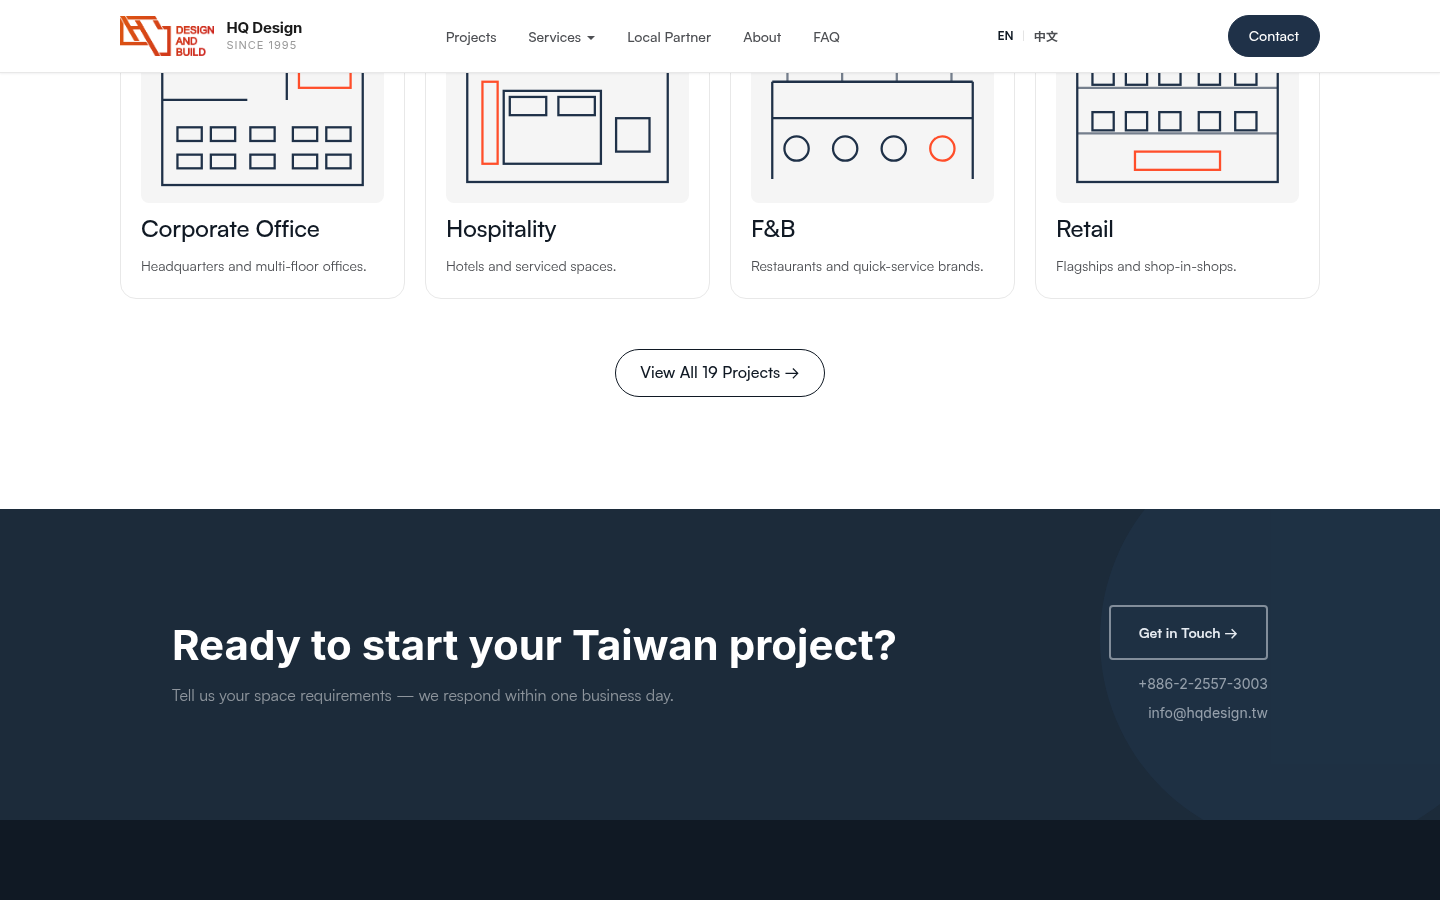
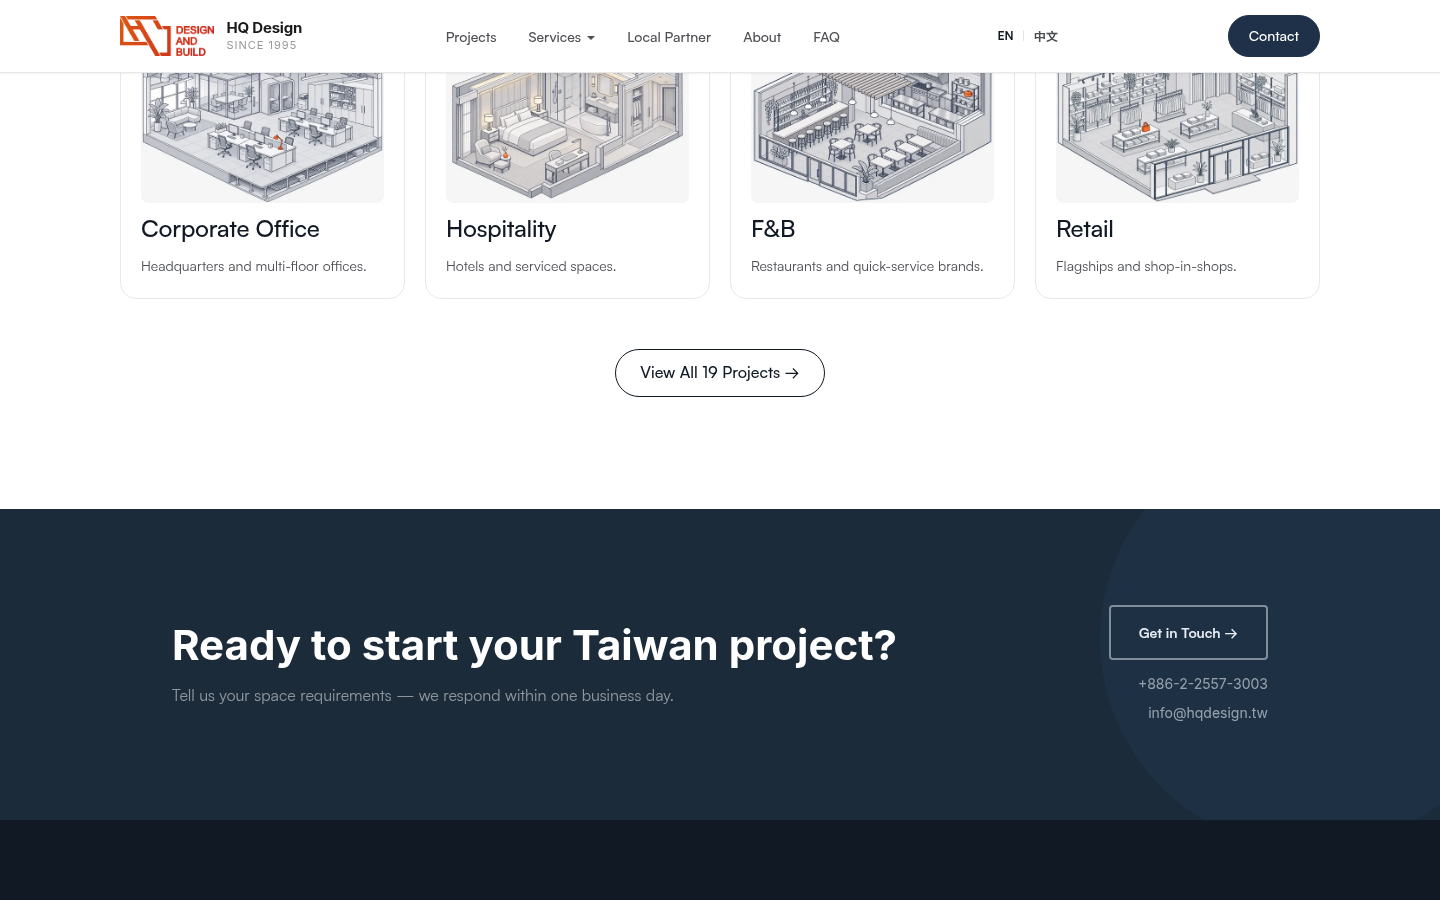
feat(home): replace hand-coded line art with detailed fictional architectural drawings
- Hero: isometric two-level office cutaway; loader window: full-floor office plan (plan -> space story).
- Work entry: isometric cutaways for office, hotel, F&B and retail.
- Generated text-only with Higgsfield (fictional, no client material); provenance in assets/images/home/README.md.
- WebP with srcset; hero/loader use white-on-black + mix-blend-mode: screen to keep files small (hero 96-210 KB).

Claude-Session: https://claude.ai/code/session_014qrEAcd6FcJcTs1soU3tCW

Changed region(s): [[0.3125, 0.0622, 0.6875, 0.2178], [0.0938, 0.0622, 0.2812, 0.2178], [0.7188, 0.0622, 0.9062, 0.2178]]

diff --git a/index.html b/index.html
@@ -87,11 +87,7 @@
 
 <div class="hm-loader" id="hm-loader" data-theme="dark" role="dialog" aria-modal="true" aria-label="HQ Design intro" data-step="0">
   <div class="hm-loader__window" aria-hidden="true">
-<svg viewBox="0 0 960 600" preserveAspectRatio="xMidYMid slice" fill="none" stroke="currentColor" stroke-width="1.25" aria-hidden="true" focusable="false">
-  <rect x="120" y="80" width="720" height="440"/><rect x="424" y="204" width="112" height="192"/>
-  <path d="M120 262 H424 M536 300 H840 M300 80 V262 M660 300 V520 M120 400 H300"/>
-  <rect x="540" y="304" width="296" height="212" fill="#ff4e2a" fill-opacity=".1" stroke="#ff4e2a" stroke-dasharray="6 5"/>
-</svg>
+<img src="assets/images/home/loader-plan-1600.webp" srcset="assets/images/home/loader-plan-960.webp 960w, assets/images/home/loader-plan-1600.webp 1600w" sizes="100vw" width="1600" height="1063" alt="" decoding="async">
 
   </div>
   <div class="hm-loader__stage">
@@ -148,45 +144,7 @@
 <main id="main">
 <section class="hm-hero" data-theme="dark" aria-labelledby="hm-hero-title">
   <div class="hm-hero__grid" aria-hidden="true"></div>
-<svg class="hm-hero__plan" viewBox="0 0 960 600" fill="none" stroke="currentColor" stroke-width="1.25" stroke-linecap="square" aria-hidden="true" focusable="false">
-  <!-- 虛構辦公樓層平面（HQ 自繪線稿，非任何實際專案圖面） -->
-  <g opacity=".9">
-    <rect pathLength="1000" class="hm-plan-draw" x="120" y="80" width="720" height="440"/>
-    <rect pathLength="1000" class="hm-plan-draw" x="424" y="204" width="112" height="192"/>
-    <path pathLength="1000" class="hm-plan-draw" d="M424 204 L536 396 M536 204 L424 396" opacity=".5"/>
-    <path pathLength="1000" class="hm-plan-draw" d="M120 262 H424 M536 300 H840 M300 80 V262 M660 300 V520 M120 400 H300"/>
-    <path pathLength="1000" class="hm-plan-draw" d="M300 262 a44 44 0 0 0 -44 -44 M660 380 a40 40 0 0 1 40 40 M300 400 a40 40 0 0 1 -40 40" opacity=".6"/>
-  </g>
-  <!-- 開放區工位 -->
-  <defs><g id="hm-desk"><rect x="0" y="0" width="38" height="20"/><circle cx="19" cy="31" r="7"/></g></defs>
-  <g stroke-width="1" opacity=".55">
-    <use href="#hm-desk" x="150" y="430"/><use href="#hm-desk" x="200" y="430"/><use href="#hm-desk" x="250" y="430"/>
-    <use href="#hm-desk" x="150" y="290"/><use href="#hm-desk" x="200" y="290"/><use href="#hm-desk" x="250" y="290"/>
-    <use href="#hm-desk" x="330" y="110"/><use href="#hm-desk" x="380" y="110"/><use href="#hm-desk" x="560" y="110"/><use href="#hm-desk" x="610" y="110"/><use href="#hm-desk" x="660" y="110"/><use href="#hm-desk" x="710" y="110"/>
-  </g>
-  <!-- 施工分區（零停工：分區分階段） -->
-  <g data-in style="--i:4">
-    <rect x="540" y="304" width="296" height="212" fill="#ff4e2a" fill-opacity=".10" stroke="#ff4e2a" stroke-dasharray="6 5"/>
-    <rect x="564" y="476" width="148" height="24" fill="#ff4e2a" stroke="none"/>
-    <text x="574" y="493" fill="#101924" stroke="none" font-family="ui-monospace,Menlo,Consolas,monospace" font-size="12" letter-spacing="1.2">ZONE B · IN WORKS</text>
-  </g>
-  <!-- 尺寸線 -->
-  <g stroke-width="1" opacity=".7" font-family="ui-monospace,Menlo,Consolas,monospace" font-size="12" fill="currentColor">
-    <path d="M120 52 H840 M120 44 V60 M840 44 V60"/>
-    <text x="446" y="44" stroke="none" letter-spacing="1.2">24,000</text>
-    <path d="M92 80 V520 M84 80 H100 M84 520 H100"/>
-    <text transform="translate(76 312) rotate(-90)" stroke="none" letter-spacing="1.2">14,600</text>
-    <circle cx="120" cy="560" r="12" fill="none"/><text x="115" y="565" stroke="none">A</text>
-    <circle cx="480" cy="560" r="12" fill="none"/><text x="475" y="565" stroke="none">B</text>
-    <circle cx="840" cy="560" r="12" fill="none"/><text x="835" y="565" stroke="none">C</text>
-    <path d="M120 548 V536 M480 548 V536 M840 548 V536" opacity=".5"/>
-  </g>
-  <g data-in style="--i:6" stroke-width="1">
-    <path d="M700 220 L740 160 H822" stroke="#ff4e2a"/>
-    <circle cx="700" cy="220" r="4" fill="#ff4e2a" stroke="none"/>
-    <text x="746" y="152" fill="currentColor" stroke="none" font-family="ui-monospace,Menlo,Consolas,monospace" font-size="12" letter-spacing="1.2">OPEN DURING WORKS</text>
-  </g>
-</svg>
+<img class="hm-hero__plan" src="assets/images/home/hero-axo-1600.webp" srcset="assets/images/home/hero-axo-960.webp 960w, assets/images/home/hero-axo-1600.webp 1600w" sizes="(max-width: 768px) 150vw, 60vw" width="1600" height="1063" alt="" fetchpriority="high" decoding="async">
 
   <div class="hm-hero__inner">
     <div class="hm-hero__top" data-in style="--i:0">
@@ -360,10 +318,10 @@
       <p>Office · Hospitality · F&amp;B · Retail. Case studies live on the Projects page.</p>
     </div>
     <ul class="hm-work">
-      <li class="hm-work__item hq-reveal"><svg class="hm-work__art" viewBox="0 0 160 120" fill="none" stroke="currentColor" stroke-width="1.5" aria-hidden="true" focusable="false"><rect x="14" y="12" width="132" height="96"/><path d="M14 52 H70 M96 12 V52"/><rect x="24" y="70" width="16" height="9"/><rect x="24" y="88" width="16" height="9"/><rect x="46" y="70" width="16" height="9"/><rect x="46" y="88" width="16" height="9"/><rect x="72" y="70" width="16" height="9"/><rect x="72" y="88" width="16" height="9"/><rect x="100" y="70" width="16" height="9"/><rect x="100" y="88" width="16" height="9"/><rect x="122" y="70" width="16" height="9"/><rect x="122" y="88" width="16" height="9"/><rect x="104" y="22" width="34" height="22" stroke="#ff4e2a"/></svg><h3><a href="projects.html">Corporate Office</a></h3><p>Headquarters and multi-floor offices.</p></li>
-      <li class="hm-work__item hq-reveal"><svg class="hm-work__art" viewBox="0 0 160 120" fill="none" stroke="currentColor" stroke-width="1.5" aria-hidden="true" focusable="false"><rect x="14" y="14" width="132" height="92"/><rect x="38" y="46" width="64" height="48"/><rect x="42" y="50" width="24" height="12"/><rect x="74" y="50" width="24" height="12"/><rect x="112" y="64" width="22" height="22"/><path d="M14 30 H146" opacity=".5"/><rect x="24" y="40" width="10" height="54" stroke="#ff4e2a"/></svg><h3><a href="projects.html">Hospitality</a></h3><p>Hotels and serviced spaces.</p></li>
-      <li class="hm-work__item hq-reveal"><svg class="hm-work__art" viewBox="0 0 160 120" fill="none" stroke="currentColor" stroke-width="1.5" aria-hidden="true" focusable="false"><path d="M14 40 H146 M14 40 V104 M146 40 V104"/><path d="M24 40 V30 M60 40 V30 M96 40 V30 M132 40 V30" opacity=".6"/><circle cx="30" cy="84" r="8"/><circle cx="62" cy="84" r="8"/><circle cx="94" cy="84" r="8"/><circle cx="126" cy="84" r="8" stroke="#ff4e2a"/><path d="M14 64 H146"/></svg><h3><a href="projects.html">F&amp;B</a></h3><p>Restaurants and quick-service brands.</p></li>
-      <li class="hm-work__item hq-reveal"><svg class="hm-work__art" viewBox="0 0 160 120" fill="none" stroke="currentColor" stroke-width="1.5" aria-hidden="true" focusable="false"><rect x="14" y="14" width="132" height="92"/><path d="M14 44 H146 M14 74 H146" opacity=".6"/><rect x="24" y="30" width="14" height="12"/><rect x="24" y="60" width="14" height="12"/><rect x="46" y="30" width="14" height="12"/><rect x="46" y="60" width="14" height="12"/><rect x="68" y="30" width="14" height="12"/><rect x="68" y="60" width="14" height="12"/><rect x="94" y="30" width="14" height="12"/><rect x="94" y="60" width="14" height="12"/><rect x="118" y="30" width="14" height="12"/><rect x="118" y="60" width="14" height="12"/><rect x="52" y="86" width="56" height="12" stroke="#ff4e2a"/></svg><h3><a href="projects.html">Retail</a></h3><p>Flagships and shop-in-shops.</p></li>
+      <li class="hm-work__item hq-reveal"><img class="hm-work__art" src="assets/images/home/work-office-960.webp" srcset="assets/images/home/work-office-560.webp 560w, assets/images/home/work-office-960.webp 960w" sizes="(max-width: 768px) 92vw, (max-width: 1024px) 46vw, 280px" width="960" height="717" alt="" loading="lazy" decoding="async"><h3><a href="projects.html">Corporate Office</a></h3><p>Headquarters and multi-floor offices.</p></li>
+      <li class="hm-work__item hq-reveal"><img class="hm-work__art" src="assets/images/home/work-hotel-960.webp" srcset="assets/images/home/work-hotel-560.webp 560w, assets/images/home/work-hotel-960.webp 960w" sizes="(max-width: 768px) 92vw, (max-width: 1024px) 46vw, 280px" width="960" height="717" alt="" loading="lazy" decoding="async"><h3><a href="projects.html">Hospitality</a></h3><p>Hotels and serviced spaces.</p></li>
+      <li class="hm-work__item hq-reveal"><img class="hm-work__art" src="assets/images/home/work-fnb-960.webp" srcset="assets/images/home/work-fnb-560.webp 560w, assets/images/home/work-fnb-960.webp 960w" sizes="(max-width: 768px) 92vw, (max-width: 1024px) 46vw, 280px" width="960" height="717" alt="" loading="lazy" decoding="async"><h3><a href="projects.html">F&amp;B</a></h3><p>Restaurants and quick-service brands.</p></li>
+      <li class="hm-work__item hq-reveal"><img class="hm-work__art" src="assets/images/home/work-retail-960.webp" srcset="assets/images/home/work-retail-560.webp 560w, assets/images/home/work-retail-960.webp 960w" sizes="(max-width: 768px) 92vw, (max-width: 1024px) 46vw, 280px" width="960" height="717" alt="" loading="lazy" decoding="async"><h3><a href="projects.html">Retail</a></h3><p>Flagships and shop-in-shops.</p></li>
 
     </ul>
     <div class="hm-work-foot hq-reveal"><a class="hq-btn hq-btn--outline" href="projects.html">View All 19 Projects →</a></div>

diff --git a/zh/index.html b/zh/index.html
@@ -87,11 +87,7 @@
 
 <div class="hm-loader" id="hm-loader" data-theme="dark" role="dialog" aria-modal="true" aria-label="惠強開場動畫" data-step="0">
   <div class="hm-loader__window" aria-hidden="true">
-<svg viewBox="0 0 960 600" preserveAspectRatio="xMidYMid slice" fill="none" stroke="currentColor" stroke-width="1.25" aria-hidden="true" focusable="false">
-  <rect x="120" y="80" width="720" height="440"/><rect x="424" y="204" width="112" height="192"/>
-  <path d="M120 262 H424 M536 300 H840 M300 80 V262 M660 300 V520 M120 400 H300"/>
-  <rect x="540" y="304" width="296" height="212" fill="#ff4e2a" fill-opacity=".1" stroke="#ff4e2a" stroke-dasharray="6 5"/>
-</svg>
+<img src="../assets/images/home/loader-plan-1600.webp" srcset="../assets/images/home/loader-plan-960.webp 960w, ../assets/images/home/loader-plan-1600.webp 1600w" sizes="100vw" width="1600" height="1063" alt="" decoding="async">
 
   </div>
   <div class="hm-loader__stage">
@@ -149,45 +145,7 @@
 <main id="main">
 <section class="hm-hero" data-theme="dark" aria-labelledby="hm-hero-title">
   <div class="hm-hero__grid" aria-hidden="true"></div>
-<svg class="hm-hero__plan" viewBox="0 0 960 600" fill="none" stroke="currentColor" stroke-width="1.25" stroke-linecap="square" aria-hidden="true" focusable="false">
-  <!-- 虛構辦公樓層平面（HQ 自繪線稿，非任何實際專案圖面） -->
-  <g opacity=".9">
-    <rect pathLength="1000" class="hm-plan-draw" x="120" y="80" width="720" height="440"/>
-    <rect pathLength="1000" class="hm-plan-draw" x="424" y="204" width="112" height="192"/>
-    <path pathLength="1000" class="hm-plan-draw" d="M424 204 L536 396 M536 204 L424 396" opacity=".5"/>
-    <path pathLength="1000" class="hm-plan-draw" d="M120 262 H424 M536 300 H840 M300 80 V262 M660 300 V520 M120 400 H300"/>
-    <path pathLength="1000" class="hm-plan-draw" d="M300 262 a44 44 0 0 0 -44 -44 M660 380 a40 40 0 0 1 40 40 M300 400 a40 40 0 0 1 -40 40" opacity=".6"/>
-  </g>
-  <!-- 開放區工位 -->
-  <defs><g id="hm-desk"><rect x="0" y="0" width="38" height="20"/><circle cx="19" cy="31" r="7"/></g></defs>
-  <g stroke-width="1" opacity=".55">
-    <use href="#hm-desk" x="150" y="430"/><use href="#hm-desk" x="200" y="430"/><use href="#hm-desk" x="250" y="430"/>
-    <use href="#hm-desk" x="150" y="290"/><use href="#hm-desk" x="200" y="290"/><use href="#hm-desk" x="250" y="290"/>
-    <use href="#hm-desk" x="330" y="110"/><use href="#hm-desk" x="380" y="110"/><use href="#hm-desk" x="560" y="110"/><use href="#hm-desk" x="610" y="110"/><use href="#hm-desk" x="660" y="110"/><use href="#hm-desk" x="710" y="110"/>
-  </g>
-  <!-- 施工分區（零停工：分區分階段） -->
-  <g data-in style="--i:4">
-    <rect x="540" y="304" width="296" height="212" fill="#ff4e2a" fill-opacity=".10" stroke="#ff4e2a" stroke-dasharray="6 5"/>
-    <rect x="564" y="476" width="148" height="24" fill="#ff4e2a" stroke="none"/>
-    <text x="574" y="493" fill="#101924" stroke="none" font-family="ui-monospace,Menlo,Consolas,monospace" font-size="12" letter-spacing="1.2">ZONE B · IN WORKS</text>
-  </g>
-  <!-- 尺寸線 -->
-  <g stroke-width="1" opacity=".7" font-family="ui-monospace,Menlo,Consolas,monospace" font-size="12" fill="currentColor">
-    <path d="M120 52 H840 M120 44 V60 M840 44 V60"/>
-    <text x="446" y="44" stroke="none" letter-spacing="1.2">24,000</text>
-    <path d="M92 80 V520 M84 80 H100 M84 520 H100"/>
-    <text transform="translate(76 312) rotate(-90)" stroke="none" letter-spacing="1.2">14,600</text>
-    <circle cx="120" cy="560" r="12" fill="none"/><text x="115" y="565" stroke="none">A</text>
-    <circle cx="480" cy="560" r="12" fill="none"/><text x="475" y="565" stroke="none">B</text>
-    <circle cx="840" cy="560" r="12" fill="none"/><text x="835" y="565" stroke="none">C</text>
-    <path d="M120 548 V536 M480 548 V536 M840 548 V536" opacity=".5"/>
-  </g>
-  <g data-in style="--i:6" stroke-width="1">
-    <path d="M700 220 L740 160 H822" stroke="#ff4e2a"/>
-    <circle cx="700" cy="220" r="4" fill="#ff4e2a" stroke="none"/>
-    <text x="746" y="152" fill="currentColor" stroke="none" font-family="ui-monospace,Menlo,Consolas,monospace" font-size="12" letter-spacing="1.2">OPEN DURING WORKS</text>
-  </g>
-</svg>
+<img class="hm-hero__plan" src="../assets/images/home/hero-axo-1600.webp" srcset="../assets/images/home/hero-axo-960.webp 960w, ../assets/images/home/hero-axo-1600.webp 1600w" sizes="(max-width: 768px) 150vw, 60vw" width="1600" height="1063" alt="" fetchpriority="high" decoding="async">
 
   <div class="hm-hero__inner">
     <div class="hm-hero__top" data-in style="--i:0">
@@ -361,10 +319,10 @@
       <p>辦公室 · 飯店 · 餐飲 · 零售。完整案例請見「專案」頁。</p>
     </div>
     <ul class="hm-work">
-      <li class="hm-work__item hq-reveal"><svg class="hm-work__art" viewBox="0 0 160 120" fill="none" stroke="currentColor" stroke-width="1.5" aria-hidden="true" focusable="false"><rect x="14" y="12" width="132" height="96"/><path d="M14 52 H70 M96 12 V52"/><rect x="24" y="70" width="16" height="9"/><rect x="24" y="88" width="16" height="9"/><rect x="46" y="70" width="16" height="9"/><rect x="46" y="88" width="16" height="9"/><rect x="72" y="70" width="16" height="9"/><rect x="72" y="88" width="16" height="9"/><rect x="100" y="70" width="16" height="9"/><rect x="100" y="88" width="16" height="9"/><rect x="122" y="70" width="16" height="9"/><rect x="122" y="88" width="16" height="9"/><rect x="104" y="22" width="34" height="22" stroke="#ff4e2a"/></svg><h3><a href="projects.html">企業辦公</a></h3><p>總部與多樓層辦公室。</p></li>
-      <li class="hm-work__item hq-reveal"><svg class="hm-work__art" viewBox="0 0 160 120" fill="none" stroke="currentColor" stroke-width="1.5" aria-hidden="true" focusable="false"><rect x="14" y="14" width="132" height="92"/><rect x="38" y="46" width="64" height="48"/><rect x="42" y="50" width="24" height="12"/><rect x="74" y="50" width="24" height="12"/><rect x="112" y="64" width="22" height="22"/><path d="M14 30 H146" opacity=".5"/><rect x="24" y="40" width="10" height="54" stroke="#ff4e2a"/></svg><h3><a href="projects.html">飯店</a></h3><p>飯店與服務式空間。</p></li>
-      <li class="hm-work__item hq-reveal"><svg class="hm-work__art" viewBox="0 0 160 120" fill="none" stroke="currentColor" stroke-width="1.5" aria-hidden="true" focusable="false"><path d="M14 40 H146 M14 40 V104 M146 40 V104"/><path d="M24 40 V30 M60 40 V30 M96 40 V30 M132 40 V30" opacity=".6"/><circle cx="30" cy="84" r="8"/><circle cx="62" cy="84" r="8"/><circle cx="94" cy="84" r="8"/><circle cx="126" cy="84" r="8" stroke="#ff4e2a"/><path d="M14 64 H146"/></svg><h3><a href="projects.html">餐飲</a></h3><p>餐廳與連鎖速食品牌。</p></li>
-      <li class="hm-work__item hq-reveal"><svg class="hm-work__art" viewBox="0 0 160 120" fill="none" stroke="currentColor" stroke-width="1.5" aria-hidden="true" focusable="false"><rect x="14" y="14" width="132" height="92"/><path d="M14 44 H146 M14 74 H146" opacity=".6"/><rect x="24" y="30" width="14" height="12"/><rect x="24" y="60" width="14" height="12"/><rect x="46" y="30" width="14" height="12"/><rect x="46" y="60" width="14" height="12"/><rect x="68" y="30" width="14" height="12"/><rect x="68" y="60" width="14" height="12"/><rect x="94" y="30" width="14" height="12"/><rect x="94" y="60" width="14" height="12"/><rect x="118" y="30" width="14" height="12"/><rect x="118" y="60" width="14" height="12"/><rect x="52" y="86" width="56" height="12" stroke="#ff4e2a"/></svg><h3><a href="projects.html">零售</a></h3><p>旗艦店與專櫃。</p></li>
+      <li class="hm-work__item hq-reveal"><img class="hm-work__art" src="../assets/images/home/work-office-960.webp" srcset="../assets/images/home/work-office-560.webp 560w, ../assets/images/home/work-office-960.webp 960w" sizes="(max-width: 768px) 92vw, (max-width: 1024px) 46vw, 280px" width="960" height="717" alt="" loading="lazy" decoding="async"><h3><a href="projects.html">企業辦公</a></h3><p>總部與多樓層辦公室。</p></li>
+      <li class="hm-work__item hq-reveal"><img class="hm-work__art" src="../assets/images/home/work-hotel-960.webp" srcset="../assets/images/home/work-hotel-560.webp 560w, ../assets/images/home/work-hotel-960.webp 960w" sizes="(max-width: 768px) 92vw, (max-width: 1024px) 46vw, 280px" width="960" height="717" alt="" loading="lazy" decoding="async"><h3><a href="projects.html">飯店</a></h3><p>飯店與服務式空間。</p></li>
+      <li class="hm-work__item hq-reveal"><img class="hm-work__art" src="../assets/images/home/work-fnb-960.webp" srcset="../assets/images/home/work-fnb-560.webp 560w, ../assets/images/home/work-fnb-960.webp 960w" sizes="(max-width: 768px) 92vw, (max-width: 1024px) 46vw, 280px" width="960" height="717" alt="" loading="lazy" decoding="async"><h3><a href="projects.html">餐飲</a></h3><p>餐廳與連鎖速食品牌。</p></li>
+      <li class="hm-work__item hq-reveal"><img class="hm-work__art" src="../assets/images/home/work-retail-960.webp" srcset="../assets/images/home/work-retail-560.webp 560w, ../assets/images/home/work-retail-960.webp 960w" sizes="(max-width: 768px) 92vw, (max-width: 1024px) 46vw, 280px" width="960" height="717" alt="" loading="lazy" decoding="async"><h3><a href="projects.html">零售</a></h3><p>旗艦店與專櫃。</p></li>
 
     </ul>
     <div class="hm-work-foot hq-reveal"><a class="hq-btn hq-btn--outline" href="projects.html">查看全部案例 →</a></div>

diff --git a/assets/css/home.css b/assets/css/home.css
@@ -184,13 +184,15 @@
     clip-path 900ms var(--ease-out),
     opacity var(--duration-base) var(--ease-standard);
 }
-.hm-loader__window svg {
+/* 虛構樓層平面（Higgsfield 生成，白線黑底）：screen 混色後只留下白線 */
+.hm-loader__window img {
   position: absolute;
   inset: 0;
   width: 100%;
   height: 100%;
-  color: var(--hq-white);
-  opacity: 0.9;
+  object-fit: cover;
+  mix-blend-mode: screen;
+  opacity: 0.8;
 }
 .hm-loader[data-step="3"] .hm-loader__window {
   opacity: 1;
@@ -263,6 +265,16 @@
     background-color var(--duration-base) var(--ease-standard),
     border-color var(--duration-base) var(--ease-standard);
 }
+.hm-loader__skip {
+  background: rgb(16 25 36 / 0.72);
+  -webkit-backdrop-filter: blur(8px);
+  backdrop-filter: blur(8px);
+}
+.hm-loader__meta > span {
+  padding: 4px 8px;
+  border-radius: var(--radius-sm);
+  background: rgb(16 25 36 / 0.72);
+}
 .hm-loader__skip:hover {
   background: rgb(255 255 255 / 0.1);
   border-color: var(--hq-white);
@@ -307,11 +319,16 @@
 .hm-hero__plan {
   position: absolute;
   z-index: -1;
-  top: calc(var(--nav-height) + var(--space-xl));
+  top: calc(var(--nav-height) + var(--space-2xl));
   right: 0;
-  width: min(54vw, 800px);
+  width: min(60vw, 940px);
   height: auto;
-  color: var(--hq-white);
+  /* 虛構 3D 剖視線稿（白線黑底）：screen 混色後黑底消失，只留線條 */
+  mix-blend-mode: screen;
+  opacity: 0.88;
+  /* 左側淡出，避免線條壓在標題後面 */
+  -webkit-mask-image: linear-gradient(90deg, transparent 0%, rgb(0 0 0 / 0.25) 22%, #000 48%);
+  mask-image: linear-gradient(90deg, transparent 0%, rgb(0 0 0 / 0.25) 22%, #000 48%);
   pointer-events: none;
 }
 .hm-hero__inner {
@@ -462,13 +479,16 @@
     transform: translateY(24px);
     transition: none;
   }
-  .hm-plan-draw {
-    stroke-dasharray: var(--len, 1000);
-    stroke-dashoffset: 0;
-    transition: stroke-dashoffset 1800ms var(--ease-out);
+  /* loader 結束後，3D 線稿由左往右「出圖」 */
+  .hm-hero__plan {
+    clip-path: inset(0 0 0 0);
+    transition:
+      clip-path 1600ms var(--ease-out) 150ms,
+      transform 1800ms var(--ease-out) 150ms;
   }
-  .hm-loading .hm-plan-draw {
-    stroke-dashoffset: var(--len, 1000);
+  .hm-loading .hm-hero__plan {
+    clip-path: inset(0 100% 0 0);
+    transform: scale(1.03);
     transition: none;
   }
 }
@@ -948,7 +968,7 @@
   aspect-ratio: 4 / 3;
   border-radius: var(--radius-sm);
   background: var(--color-bg-subtle);
-  color: var(--color-primary);
+  object-fit: contain;
 }
 .hm-work__item h3 {
   margin: 0;

diff --git a/assets/images/home/README.md b/assets/images/home/README.md
@@ -1,0 +1,14 @@
+# 首頁插圖來源（assets/images/home）
+
+全部為 **虛構空間**，以 Higgsfield `gpt_image_2_6`（quality high、2k、透明背景）**純文字生成**，未上傳任何參考圖，未使用任何客戶圖面、照片、名稱或 logo。生成日期 2026-11-22。
+
+| 檔案 | 用途 | Higgsfield job | 處理 |
+| ---- | ---- | -------------- | ---- |
+| `hero-axo-{960,1600}.webp` | 首頁 hero 背景（兩層辦公室等角剖視線稿） | `20ea0f25-e3cd-4558-a6c0-6b4e53ef248d` | 白線合成到黑底、WebP q72；頁面以 `mix-blend-mode: screen` 去黑底 |
+| `loader-plan-{960,1600}.webp` | Loader 視窗（整層辦公平面圖） | `652b8adf-dd30-4b8a-a758-f8ccf717ff06` | 同上 |
+| `work-office-{560,960}.webp` | 作品入口：企業辦公 | `7bb488e1-bf44-4bac-a0d3-f4a11decf0bb` | 合成到 `#f5f5f5`、WebP q78 |
+| `work-hotel-{560,960}.webp` | 作品入口：飯店 | `2c3ef922-71a7-42dc-92d9-26ca0e860f2a` | 同上 |
+| `work-fnb-{560,960}.webp` | 作品入口：餐飲 | `389986d6-b117-4d04-bdde-8631e9a0c30e` | 同上 |
+| `work-retail-{560,960}.webp` | 作品入口：零售 | `9fbd53ca-ba67-404b-afb5-9d71a3e74d99` | 同上 |
+
+Prompt 要點：專案級細節（柱網、核心筒、家具配置、門扇、尺寸線、天花機電）、無文字／數字／logo、無人物。若要重新生成請沿用相同限制。
